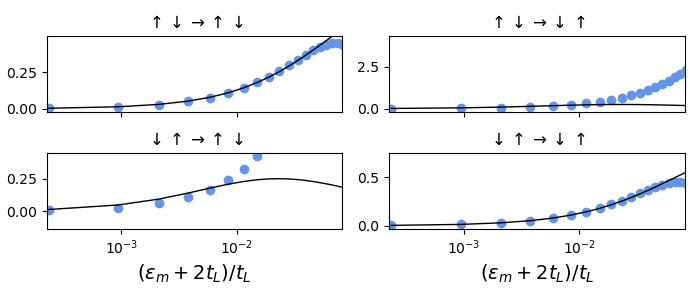
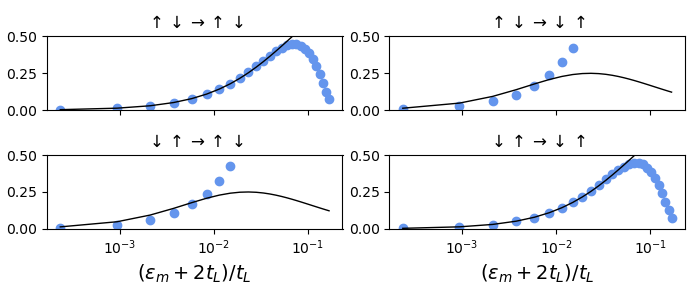
Decouple height of spinless central barrier (VC) from exchange strength (J), but NB only works if VC==-J/4

diff --git a/run_bard_menez.py b/run_bard_menez.py
@@ -127,15 +127,16 @@ if True:
 
     # central region
     tC = 1.0*tL;
+    VC = -Jval/4;
     NC = 3;
     if barrier: NC = 11;
     HC = np.zeros((NC,NC,n_loc_dof,n_loc_dof),dtype=complex);
     for NCi in range(NC):
         for NCj in range(NC):
             if(NCi == NCj): # exchange interaction
-                if(barrier or NCi == 1):
-                    HC[NCi,NCj] += np.diagflat(np.diagonal(h_kondo(Jval,0.5)[1:3,1:3]));
-                else:
+                if(barrier or NCi == NC //2): # spinless barrier on central site
+                    HC[NCi,NCj] += VC*np.eye(n_loc_dof);
+                else: # kondo exchange right at barrier-well boundary
                     HC[NCi,NCj] += h_kondo(Jval,0.5)[1:3,1:3];
             elif(abs(NCi -NCj) == 1): # nn hopping
                 HC[NCi,NCj] = -tC*np.eye(n_loc_dof);
@@ -146,11 +147,9 @@ if True:
     for NCi in range(NC):
         for NCj in range(NC):
             if(NCi == NCj): # exchange interaction
-                if(barrier or NCi == 1):
-                    HCprime[NCi,NCj] += np.diagflat(np.diagonal(h_kondo(Jval,0.5)[1:3,1:3]));
-                else:
-                    #HCprime[NCi,NCj] += h_kondo(Jval,0.5)[1:3,1:3];
-                    #HCprime[NCi,NCj] += np.diagflat(np.diagonal(h_kondo(Jval,0.5)[1:3,1:3]));
+                if(barrier or NCi == NC // 2): # spinless barrier on central site
+                    HCprime[NCi,NCj] += VC*np.eye(n_loc_dof);
+                else: 
                     pass;
             elif(abs(NCi -NCj) == 1): # nn hopping
                 HCprime[NCi,NCj] += -tC*np.eye(n_loc_dof);
@@ -194,14 +193,9 @@ if True:
             ideal_Tvals_alpha = get_ideal_T(alpha, beta, xvals, tL[alphai,alphai],VL[alphai,alphai],NC,Jval,myVC = VC_barrier);
             axes[alphai,betai].plot(xvals,np.real(ideal_Tvals_alpha), color=accentcolors[0], linewidth=mylinewidth);
 
-            # error
-            if False: #( barrier and (alpha == 1 and beta == 1)):
-                axright = axes[alphai,betai].twinx();
-                axright.plot(xvals,100*abs((yvals-np.real(ideal_Tvals_alpha))/ideal_Tvals_alpha),color=accentcolors[1]);
-                axright.set_ylim(0,50);
-
             #format
-            axes[alphai,betai].set_title("$"+alpha_strs[alpha]+"\\rightarrow"+alpha_strs[beta]+"$")
+            axes[alphai,betai].set_title("$"+alpha_strs[alpha]+"\\rightarrow"+alpha_strs[beta]+"$");
+            axes[alphai,betai].set_ylim(0,0.5);
             axes[-1,betai].set_xlabel('$(\\varepsilon_m + 2t_L)/t_L$',fontsize=myfontsize);
 
     # format and show
